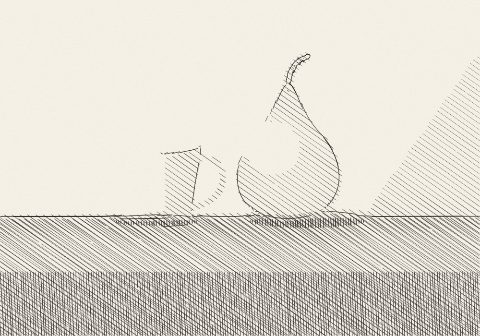
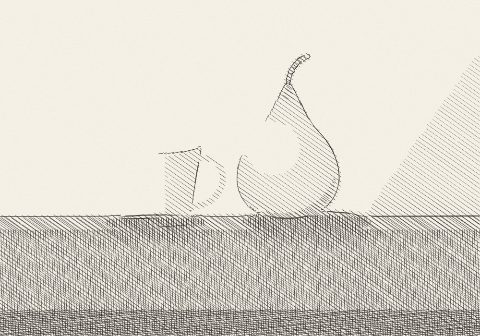
화풍 13종으로 정리, 입력 흑백 변환 토글 삭제, 펜화 기본 5단계
화풍
- 남긴 13종: 펜화(명암 단계 해칭) · 리천 · 세밀 펜화 · 클래식 해칭 · 크로스 해칭 ·
  윤곽선 드로잉 · 점묘 · 판화풍 · 극사실 세밀화 · 잉크 일러스트 · 수채 담채 · 유화 · 고흐풍.
- 지운 7종: 스크리블 · 어반 스케치 · 건축 제도풍 · 지브리풍 · 웹툰 · 망가 · 판각.
  `PenStyle`·`PEN_STYLES`·`PAINT_FOR_STYLE`·`STYLE_LABEL`·`STYLE_DESC`·`STYLE_TEXT`·`STYLE_TIP`
  과 예시 그림에서 함께 뺐고, 옛 이력은 `mergeParams` 의 `OLD_STYLE` 이 가장 가까운 화풍으로 옮긴다
  (스크리블·어반→리천, 건축→클래식 해칭, 지브리·웹툰·망가→잉크 일러스트, 판각→고흐풍).
- 갤러리 예시 그림 13장을 지금 설정으로 다시 만들었다.

입력 패널
- "흑백으로 변환하여 입력" 토글 삭제. 입력은 늘 원본 색 그대로 준비하고,
  흑백·세피아는 "색 표현"이 정한다. `DrawingParams.grayscaleInput` 도 없앴다.

펜화
- 명암 단계 기본을 5로 되돌렸다 (범위는 그대로 3~10). 다른 붓에서 펜화로 바꿀 때도 5단계.

Claude-Session: https://claude.ai/code/session_01Hvnc9GgokccTnGmXxLxTkb

Changed region(s): [[0.0, 0.1488, 1.0, 1.0]]

diff --git a/src/types.ts b/src/types.ts
@@ -8,10 +8,10 @@ export type { ArtistId } from './artists';
 
 export type ProviderId = 'gemini' | 'openai' | 'xai';
 export type PenStyle =
-  | 'richeon' | 'fineink'
-  | 'hatching' | 'crosshatch' | 'contour' | 'scribble' | 'stipple'
-  | 'engraving' | 'urban' | 'realistic' | 'comic' | 'architectural'
-  | 'tonehatch' | 'ghibli' | 'webtoon' | 'manga' | 'watercolor' | 'oil' | 'vangogh' | 'carver';
+  | 'tonehatch' | 'richeon' | 'fineink'
+  | 'hatching' | 'crosshatch' | 'contour' | 'stipple'
+  | 'engraving' | 'realistic' | 'comic'
+  | 'watercolor' | 'oil' | 'vangogh';
 
 /** 결과를 만든 엔진: 브라우저 로컬 렌더러 또는 AI 제공사 */
 /** 결과를 만든 엔진: 브라우저 로컬 렌더러, AI 제공사, 또는 밖에서 만든 그림(Dynamic Auto-Painter 등)을 불러온 것 */
@@ -141,26 +141,20 @@ export const DEFAULT_PAINT: PaintProfile = RICHEON_PAINT;
 
 /** 화풍마다 완전한 그리기 설정 (DAP 의 프리셋). 갤러리에서 화풍을 고르면 이 값이 그대로 들어간다 */
 export const PAINT_FOR_STYLE: Record<PenStyle, PaintProfile> = {
-  tonehatch: { ...CLASSIC_PAINT, brush: 'tone', passes: 10, brushSize: 50, detail: 62, accuracy: 70, strokeLength: 70, featureFollow: 0, baseAngle: 35, randomness: 22, lineWidth: 1.4, ink: 82, paperKeep: 58, edges: 45, vignette: 0 },
+  tonehatch: { ...CLASSIC_PAINT, brush: 'tone', passes: 5, brushSize: 50, detail: 62, accuracy: 70, strokeLength: 70, featureFollow: 0, baseAngle: 35, randomness: 22, lineWidth: 1.4, ink: 82, paperKeep: 58, edges: 45, vignette: 0 },
   richeon: RICHEON_PAINT,
   fineink: FINE_PAINT,
   hatching: CLASSIC_PAINT,
   crosshatch: { ...CLASSIC_PAINT, brush: 'tone', passes: 6, detail: 75, accuracy: 70, strokeLength: 65, randomness: 25, lineWidth: 1.5, paperKeep: 50, edges: 55 },
   contour: { ...CLASSIC_PAINT, brush: 'contour', passes: 2, brushSize: 40, detail: 60, accuracy: 50, strokeLength: 60, featureFollow: 70, baseAngle: 45, randomness: 25, ink: 85, paperKeep: 65, edges: 95 },
-  scribble: { ...CLASSIC_PAINT, brush: 'pen', passes: 4, brushSize: 45, detail: 75, accuracy: 60, strokeLength: 60, featureFollow: 30, baseAngle: 0, randomness: 70, lineWidth: 1.3, ink: 75, edges: 45 },
   stipple: { ...CLASSIC_PAINT, brush: 'stipple', passes: 4, brushSize: 40, detail: 85, accuracy: 65, strokeLength: 0, featureFollow: 0, randomness: 50, lineWidth: 1.6, ink: 90, edges: 30 },
   engraving: { ...CLASSIC_PAINT, passes: 5, brushSize: 40, detail: 85, accuracy: 75, strokeLength: 90, featureFollow: 90, baseAngle: 0, randomness: 10, lineWidth: 1.4, ink: 82, paperKeep: 45, edges: 60 },
-  urban: { ...RICHEON_PAINT, passes: 3, brushSize: 50, detail: 65, accuracy: 55, strokeLength: 60, featureFollow: 75, baseAngle: 60, randomness: 45, lineWidth: 1.5, paperKeep: 62, edges: 60, vignette: 55 },
   realistic: { ...CLASSIC_PAINT, brush: 'tone', passes: 6, brushSize: 35, detail: 100, accuracy: 95, strokeLength: 45, featureFollow: 70, baseAngle: 30, randomness: 15, lineWidth: 1, ink: 85, paperKeep: 35, edges: 75 },
   comic: { ...CLASSIC_PAINT, brush: 'contour', passes: 3, brushSize: 45, detail: 70, accuracy: 55, strokeLength: 55, featureFollow: 60, baseAngle: 45, randomness: 20, lineWidth: 2.4, ink: 95, paperKeep: 60, edges: 100 },
-  architectural: { ...CLASSIC_PAINT, passes: 3, brushSize: 50, detail: 70, accuracy: 60, strokeLength: 95, featureFollow: 90, baseAngle: 90, randomness: 5, lineWidth: 1.2, ink: 80, paperKeep: 65, edges: 85 },
-  ghibli: { ...CLASSIC_PAINT, passes: 3, brushSize: 55, detail: 60, accuracy: 50, strokeLength: 65, featureFollow: 60, baseAngle: 30, randomness: 20, lineWidth: 1.4, ink: 70, paperKeep: 60, edges: 65 },
-  webtoon: { ...CLASSIC_PAINT, brush: 'contour', passes: 3, brushSize: 50, detail: 65, accuracy: 55, strokeLength: 60, featureFollow: 60, baseAngle: 45, randomness: 10, lineWidth: 1.8, ink: 90, paperKeep: 62, edges: 95 },
-  manga: { ...CLASSIC_PAINT, passes: 4, brushSize: 40, detail: 90, accuracy: 70, strokeLength: 60, featureFollow: 20, baseAngle: 45, randomness: 5, lineWidth: 1, ink: 90, paperKeep: 55, edges: 85 },
   watercolor: { ...RICHEON_PAINT, brush: 'wash', tip: 'auto', palette: 'match2', wet: 72, passes: 4, brushSize: 78, detail: 80, accuracy: 72, strokeLength: 50, featureFollow: 55, baseAngle: 40, randomness: 50, lineWidth: 1.6, ink: 60, paperKeep: 62, edges: 45, vignette: 15 },
   oil: { ...RICHEON_PAINT, brush: 'oil', tip: 'auto', palette: 'match2', wet: 30, passes: 4, brushSize: 68, detail: 95, accuracy: 80, strokeLength: 40, featureFollow: 65, baseAngle: 0, randomness: 55, lineWidth: 1, ink: 0, paperKeep: 0, edges: 0, vignette: 0 },
   vangogh: { ...RICHEON_PAINT, brush: 'impasto', tip: 'auto', palette: 'match', wet: 18, passes: 4, brushSize: 62, detail: 85, accuracy: 75, strokeLength: 85, featureFollow: 100, baseAngle: 20, randomness: 45, lineWidth: 1.4, ink: 0, paperKeep: 0, edges: 55, vignette: 0 },
-  carver: { ...RICHEON_PAINT, brush: 'impasto', tip: 'chalk', palette: 'mono', wet: 0, passes: 4, brushSize: 30, detail: 100, accuracy: 90, strokeLength: 100, featureFollow: 100, baseAngle: 0, randomness: 12, lineWidth: 1, ink: 0, paperKeep: 0, edges: 70, vignette: 0 },
+
 };
 
 /** 기본값과 측정값을 반영도(0~100)로 섞습니다 */
@@ -235,8 +229,6 @@ export interface DrawingParams {
   contrast: number;
   /** 0~100 견본 반영도 */
   referenceWeight: number;
-  /** 입력을 흑백으로 변환해서 보냄 */
-  grayscaleInput: boolean;
   /** 로컬 엔진의 그리기 설정 */
   paint: PaintProfile;
   /** AI 로 그릴 때 로컬 결과를 견본 이미지로 함께 보낼지 (같은 구도라 해칭 방향·톤 배치를 잘 따름) */
@@ -259,7 +251,6 @@ export const DEFAULT_PARAMS: DrawingParams = {
   brightness: 0,
   contrast: 0,
   referenceWeight: 60,
-  grayscaleInput: false,
   paint: DEFAULT_PAINT,
   aiRefFromLocal: true,
   aiRefFromPreset: true,
@@ -270,7 +261,12 @@ export const DEFAULT_PARAMS: DrawingParams = {
 /** 이력에서 불러온 옛 레코드에 새 필드가 없을 수 있으므로 기본값과 병합합니다 */
 export function mergeParams(p: Partial<DrawingParams> | undefined): DrawingParams {
   const old = (p as { strokes?: Record<string, unknown> } | undefined)?.strokes;
-  const style = (p?.style as string) === 'parkyongsoon' ? 'fineink' : p?.style;
+  // 없앤 화풍(스크리블·어반·건축 제도·지브리·웹툰·망가·판각)과 옛 ID 는 가장 가까운 화풍으로 옮긴다
+  const OLD_STYLE: Record<string, PenStyle> = {
+    parkyongsoon: 'fineink', scribble: 'richeon', urban: 'richeon', architectural: 'hatching',
+    ghibli: 'comic', webtoon: 'comic', manga: 'comic', carver: 'vangogh',
+  };
+  const style = p?.style ? OLD_STYLE[p.style as string] ?? p.style : undefined;
   // 옛 레코드(선·톤 프로필)는 옮기고, 아주 옛 레코드(둘 다 없음)는 화풍의 프리셋으로
   const paint = p?.paint ? { ...(style ? PAINT_FOR_STYLE[style] : DEFAULT_PAINT), ...p.paint } : migrateStrokes(old) ?? (style ? PAINT_FOR_STYLE[style] : DEFAULT_PAINT);
   // 옛 레코드가 지금은 없는 붓을 가리킬 수 있다
@@ -280,6 +276,7 @@ export function mergeParams(p: Partial<DrawingParams> | undefined): DrawingParam
   const merged: DrawingParams = { ...DEFAULT_PARAMS, ...p, paint };
   delete (merged as unknown as { strokes?: unknown }).strokes;
   delete (merged as unknown as { level?: unknown }).level; // 숙련도(초급·중급·상급)는 없앴다
+  delete (merged as unknown as { grayscaleInput?: unknown }).grayscaleInput; // 입력 흑백 변환 토글도 없앴다
   if (style) merged.style = style;
   return merged;
 }
@@ -344,30 +341,24 @@ export const LIGHT_LABEL: Record<LightDir, string> = {
 export const LIGHT_DIRS: CompassDir[] = ['N', 'NE', 'E', 'SE', 'S', 'SW', 'W', 'NW'];
 
 export const PEN_STYLES: PenStyle[] = [
-  'tonehatch', 'richeon', 'fineink', 'hatching', 'crosshatch', 'contour', 'scribble', 'stipple', 'engraving', 'urban', 'realistic', 'comic', 'architectural',
-  'ghibli', 'webtoon', 'manga', 'watercolor', 'oil', 'vangogh', 'carver',
+  'tonehatch', 'richeon', 'fineink', 'hatching', 'crosshatch', 'contour', 'stipple', 'engraving', 'realistic', 'comic',
+  'watercolor', 'oil', 'vangogh',
 ];
 export const STYLE_LABEL: Record<PenStyle, string> = {
-  tonehatch: '명암 5단계 해칭 (교본식)',
+  tonehatch: '펜화 · 명암 단계 해칭 (교본식)',
   richeon: '리천 스타일 (어반 펜 스케치)',
   fineink: '세밀 펜화',
   hatching: '클래식 해칭',
   crosshatch: '크로스 해칭',
   contour: '윤곽선 드로잉',
-  scribble: '스크리블',
   stipple: '점묘',
   engraving: '판화풍',
-  urban: '어반 스케치',
   realistic: '극사실 세밀화',
   comic: '잉크 일러스트',
-  architectural: '건축 제도풍',
-  ghibli: '지브리풍 애니메이션',
-  webtoon: '웹툰',
-  manga: '일본 만화(망가)',
   watercolor: '수채 담채 (펜 + 수채)',
   oil: '유화 붓터치 (인상주의)',
   vangogh: '고흐풍 유화 (임파스토)',
-  carver: '조각·판각 느낌 (새긴 선)',
+
 };
 export const STYLE_DESC: Record<PenStyle, string> = {
   tonehatch: '사진을 밝기 5단계로 나누고 단계마다 한 방향 펜선을 얹습니다. 가장 밝은 단계는 흰 종이로 비우고, 어두운 단계일수록 선이 굵고 촘촘해지며 셋째 단계부터 교차선이 됩니다. 스케치북에 그대로 따라 그리기 가장 쉬운 방식입니다.',
@@ -376,18 +367,12 @@ export const STYLE_DESC: Record<PenStyle, string> = {
   hatching: '한 방향 평행선으로 명암을 쌓는 정석 펜 드로잉. 가장 무난하고 사진 재현이 안정적입니다.',
   crosshatch: '여러 각도의 선을 교차시켜 부드러운 중간톤을 만듭니다. 입체감과 질감이 풍부합니다.',
   contour: '명암을 거의 넣지 않고 윤곽과 형태선만으로 그립니다. 여백이 많고 간결합니다.',
-  scribble: '둥글게 휘감는 낙서 같은 선을 겹쳐 톤을 만듭니다. 자유롭고 에너지가 느껴집니다.',
   stipple: '선 대신 점의 밀도로 명암을 표현합니다. 시간이 오래 걸린 듯한 정교한 인상입니다.',
   engraving: '굵기가 규칙적으로 변하는 선으로 동판화·지폐 삽화 같은 느낌을 냅니다.',
-  urban: '느슨하고 빠른 선, 일부러 남긴 미완성 여백. 여행 스케치북 느낌입니다.',
   realistic: '아주 촘촘한 선으로 사진처럼 세밀하게 묘사합니다. 가장 오래 그린 듯한 결과입니다.',
   comic: '굵은 외곽선과 검게 채운 그림자(스팟 블랙). 만화·잉크 일러스트 느낌입니다.',
-  architectural: '직선 위주의 정확한 원근과 균일한 선. 건축 도면·투시도 같은 인상입니다.',
-  ghibli: '손그림 애니메이션 배경화 느낌. 부드럽고 깨끗한 윤곽, 단순화한 형태, 셀 방식의 2~3단계 평면 명암, 따뜻하고 서정적인 분위기.',
-  webtoon: '한국 웹툰의 깔끔한 디지털 선화. 굵기가 일정한 외곽선, 단순한 셀 셰이딩, 인물은 또렷하고 배경은 간략하게.',
-  manga: '일본 만화 원고 느낌. 가늘고 날카로운 펜선, 스크린톤처럼 규칙적인 점·선 무늬로 명암, 강조 부분에 굵은 잉크.',
   watercolor: '펜으로 윤곽을 그리고 물을 많이 섞은 수채를 몇 단계의 옅은 담채로 얹는 어반 스케치 방식. 밝은 곳은 종이를 남기고 담채 가장자리는 안료가 고여 살짝 짙어집니다. 흑백이면 먹 담채가 됩니다.',
   oil: '불투명한 짧은 붓 자국을 큰 것부터 작은 것까지 겹쳐 종이를 다 덮는 인상주의 유화. 색은 사진보다 맑고 진하게, 붓은 면의 방향을 따르고, 빛 받는 곳은 밝은 붓 자국으로 살립니다. 컬러로 보는 것이 좋습니다.',
   vangogh: '고흐의 후기 풍경화처럼 길고 굽은 두꺼운 붓 자국이 면의 흐름을 따라 소용돌이칩니다. 자국마다 색이 조금씩 달라 노랑·주황·초록이 줄무늬로 섞이고, 형태는 짙은 윤곽 붓으로 둘러 잡습니다. 컬러로 보는 것이 좋습니다.',
-  carver: '나무나 판에 새긴 것처럼 가늘고 긴 홈이 면의 흐름을 따라 흐르고, 홈마다 어두운 가장자리와 밝은 능선이 있어 얕은 부조처럼 보입니다. 세피아나 흑백으로 보면 판각 느낌이 가장 잘 납니다.',
+
 };

diff --git a/src/App.tsx b/src/App.tsx
@@ -191,8 +191,7 @@ export function App() {
     abortRef.current = ac;
     try {
       setBusy('그리는 중…');
-      const gray = params.grayscaleInput && !inputIsGray;
-      const preparedInput = await prepareInput(input, { maxSide: 1536, grayscale: gray, relight: params.lightAuto ? undefined : params.light });
+      const preparedInput = await prepareInput(input, { maxSide: 1536, grayscale: false, relight: params.lightAuto ? undefined : params.light });
       const preparedRef = reference ? await prepareInput(reference, { maxSide: 1024, grayscale: false }) : undefined;
       const result = await renderLocalDrawing(
         preparedInput, { paint: params.paint, color: params.color, guides: params.guides, guideRadius: params.guideRadius }, ac.signal,
@@ -211,8 +210,7 @@ export function App() {
     setError(null);
     try {
       setBusy('불러오는 중…');
-      const gray = params.grayscaleInput && !inputIsGray;
-      const preparedInput = await prepareInput(input, { maxSide: 1536, grayscale: gray });
+      const preparedInput = await prepareInput(input, { maxSide: 1536, grayscale: false });
       const result = await prepareInput(file, { maxSide: 2048, grayscale: false });
       await commit({ id: newId(), createdAt: Date.now(), input: preparedInput, result, params: { ...params }, engine: 'external' });
     } catch (e) { fail(e); } finally { finish(); }
@@ -226,8 +224,7 @@ export function App() {
     abortRef.current = ac;
     try {
       setBusy('이미지 준비 중…');
-      const gray = params.grayscaleInput && !inputIsGray;
-      const preparedInput = await prepareInput(input, { maxSide: 1536, grayscale: gray, relight: params.lightAuto ? undefined : params.light });
+      const preparedInput = await prepareInput(input, { maxSide: 1536, grayscale: false, relight: params.lightAuto ? undefined : params.light });
       // 로컬 결과가 있고 스위치가 켜져 있으면 그것을 견본으로 (같은 구도라 올린 견본보다 정확히 따름)
       const localRef = params.aiRefFromLocal && (current?.engine === 'local' || current?.engine === 'external') ? current.base ?? current.result : null;
       // 둘 다 없으면 고른 화풍의 프리셋 예시 그림 (다른 사진이므로 기법만 따르라고 지시)
@@ -262,7 +259,7 @@ export function App() {
       setLive(true);
       try {
         const photo = lightChanged && input
-          ? await prepareInput(input, { maxSide: 1536, grayscale: params.grayscaleInput && !inputIsGray, relight: params.lightAuto ? undefined : params.light })
+          ? await prepareInput(input, { maxSide: 1536, grayscale: false, relight: params.lightAuto ? undefined : params.light })
           : current.input;
         const base = await renderLocalDrawing(photo, { paint: params.paint, color: params.color, guides: params.guides, guideRadius: params.guideRadius }, ac.signal);
         if (id !== liveRef.current) return;
@@ -274,7 +271,7 @@ export function App() {
       } catch { /* 중단·오류는 조용히 */ } finally { if (id === liveRef.current) setLive(false); }
     }, 350);
     return () => { window.clearTimeout(timer); ac.abort(); };
-  }, [params.paint, params.color, params.light, params.lightAuto, params.grayscaleInput, params.guides, params.guideRadius, inputIsGray, input, current, busy, stamps]);
+  }, [params.paint, params.color, params.light, params.lightAuto, params.guides, params.guideRadius, inputIsGray, input, current, busy, stamps]);
 
   // 낙관·사인 배치가 바뀌면 (끌어 놓기 끝, 크기 조절, 추가·제거) 결과에 다시 구워 넣습니다.
   const bakeRef = useRef(0);
@@ -319,7 +316,7 @@ export function App() {
     abortRef.current = ac;
     try {
       setBusy('이미지 준비 중…');
-      const photo = current?.input ?? (await prepareInput(input, { maxSide: 1536, grayscale: params.grayscaleInput && !inputIsGray }));
+      const photo = current?.input ?? (await prepareInput(input, { maxSide: 1536, grayscale: false }));
       const prompt = buildProcessPrompt(params, !!current);
       const sheet = await generateDrawing(settings, {
         input: photo, reference: current?.result, prompt, signal: ac.signal, onStatus: setBusy,

diff --git a/src/prompt.ts b/src/prompt.ts
@@ -27,30 +27,14 @@ const STYLE_TEXT: Record<PenStyle, string> = {
     'Style: cross-hatching. Layers of strokes at two to four angles build smooth, continuous mid-tones; darkest areas have the most layers.',
   contour:
     'Style: pure contour line drawing. Only outlines and a few interior form lines, almost no shading, large areas of untouched paper.',
-  scribble:
-    'Style: scribble hatching. Loose, looping, energetic circular strokes pile up to make tone; edges stay lively and slightly rough.',
   stipple:
     'Style: stippling. Tone is made entirely of dots of varying density instead of lines; contours are implied by dot clusters.',
   engraving:
     'Style: engraving / etching look. Regular, precisely spaced lines that swell and taper to follow form, like a banknote illustration.',
-  urban:
-    'Style: urban sketchbook. Quick, loose, slightly wobbly lines, selective detail, deliberately unfinished edges fading into the paper.',
   realistic:
     'Style: hyper-realistic pen rendering. Extremely fine, dense strokes reproducing every value and texture almost photographically.',
   comic:
     'Style: comic ink illustration. Bold, confident outlines, solid black spot-shadows, simplified mid-tones, high graphic contrast.',
-  architectural:
-    'Style: architectural drafting. Ruler-straight lines, accurate perspective, uniform line weight, restrained hatching only in shadows.',
-  ghibli:
-    'Style: hand-drawn Japanese animation look reminiscent of classic Studio Ghibli films, rendered in pen: soft clean outlines, ' +
-    'simplified gentle shapes, cel-shading with two or three flat tone steps made of even hatching, warm nostalgic atmosphere, ' +
-    'no photographic detail.',
-  webtoon:
-    'Style: Korean webtoon line art in pen: crisp digital-looking outlines of uniform weight, simple cel shading with clean flat ' +
-    'shadow shapes, subjects drawn sharply while the background is simplified, modern and clean.',
-  manga:
-    'Style: Japanese manga ink page in pen: thin sharp linework, screentone-like regular dot and line patterns for mid-tones, ' +
-    'bold spot blacks for emphasis, expressive line weight variation, black-and-white graphic clarity.',
   watercolor:
     'Style: urban-sketch pen and wash. Confident ink outlines drawn first, then loose, transparent watercolor washes in a few ' +
     'flat value steps laid over them; highlights left as untouched white paper, washes bleeding softly past the lines, ' +
@@ -63,9 +47,7 @@ const STYLE_TEXT: Record<PenStyle, string> = {
     'Style: post-impressionist oil painting in the manner of Van Gogh instead of pen: long curving thick impasto strokes that swirl ' +
     'along the flow of every surface, each stroke a slightly different hue so yellows, oranges and greens stripe together, dark blue ' +
     'contour strokes around the forms, saturated color, no bare canvas.',
-  carver:
-    'Style: carved relief look instead of pen: fine long grooves flowing along every surface as if cut into wood, each groove with a ' +
-    'dark edge and a light ridge so the picture reads as a shallow relief, nearly monochrome with a faint tint, high detail.',
+
 };
 
 const LIGHT_TEXT: Record<LightDir, string> = {

diff --git a/src/tips.ts b/src/tips.ts
@@ -32,20 +32,14 @@ export const STYLE_TIP: Record<PenStyle, string> = {
   hatching: '한 면에는 한 방향의 선만. 방향이 바뀌는 곳이 면이 꺾이는 곳입니다.',
   crosshatch: '두 번째 층은 첫 층과 30~45도 차이. 90도로 교차하면 그물처럼 딱딱해 보입니다.',
   contour: '선 하나가 곧 형태입니다. 안쪽 선은 꼭 필요한 접히는 곳에만 넣으세요.',
-  scribble: '손을 멈추지 말고 작은 원을 겹칩니다. 어두운 곳은 원을 작게, 밝은 곳은 크게.',
   stipple: '펜을 세워 톡톡 찍습니다. 톤은 점의 크기가 아니라 간격으로 조절합니다.',
   engraving: '선 간격을 일정하게, 형태를 따라 휘게. 어두운 곳은 선을 굵게(필압) 합니다.',
-  urban: '완벽하게 닫지 않아도 됩니다. 관심 있는 부분만 자세히, 나머지는 몇 개 선으로 암시합니다.',
   realistic: '아주 작은 부분씩 나눠 그립니다. 종이 한 손가락 넓이를 끝내고 다음으로.',
   comic: '외곽선을 먼저 굵게 확정한 뒤 가장 어두운 그림자만 검게 채웁니다. 중간톤은 생략해도 됩니다.',
-  architectural: '수직선은 항상 수직으로. 소실점을 종이 밖에라도 점으로 찍어 두고 선을 맞춥니다.',
-  ghibli: '형태를 둥글고 단순하게 정리한 뒤, 그림자는 경계가 또렷한 덩어리 2~3개로만 나눕니다. 그림자 안은 같은 간격의 해칭으로 평평하게.',
-  webtoon: '외곽선 굵기를 끝까지 일정하게 유지합니다. 그림자는 모양을 먼저 연하게 그린 뒤 그 안만 채우세요.',
-  manga: '중간톤은 선 대신 규칙적인 점이나 사선 무늬로. 가장 강조할 곳 한두 군데만 검게 채웁니다.',
   watercolor: '펜 선을 먼저 끝내고 완전히 말립니다. 물을 많이 섞은 색을 큰 붓으로 한 번에 얹고, 밝은 곳은 종이를 남기세요. 마르기 전에 덧칠하지 않고, 진한 곳은 마른 뒤 한 번 더 얹습니다.',
   oil: '펜 대신 유화·아크릴 연습용입니다. 큰 붓으로 어두운 색부터 면을 나눠 칠하고, 마른 뒤 작은 붓으로 밝은 색을 두껍게 얹습니다. 윤곽선은 그리지 않고 색 경계로만 형태를 잡습니다.',
   vangogh: '펜 대신 유화·아크릴·오일파스텔 연습용입니다. 면마다 붓이 흐를 방향을 먼저 정하고, 물감을 섞지 않은 채 굵고 긴 자국을 나란히 놓습니다. 이웃한 자국은 색을 조금씩 바꾸고, 형태 경계는 짙은 파랑으로 한 번 둘러 줍니다.',
-  carver: '펜으로 옮기려면 판화 밑그림처럼 생각하세요. 면마다 홈이 흐를 방향을 정하고 가늘고 긴 선을 나란히 새기듯 긋습니다. 형태 경계는 선의 방향을 바꿔 잡고, 밝은 곳은 선 사이를 넓게 둡니다.',
+
 };
 
 export function buildTip(step: GuideStep, style: PenStyle, light: LightDir, artist: ArtistId = 'none'): string[] {

diff --git a/src/components/InputPanel.tsx b/src/components/InputPanel.tsx
@@ -79,15 +79,6 @@ export function InputPanel({ input, reference, inputIsGray, params, onParams, on
             <button className="link" onClick={() => onInput(null)}>제거</button>
           </div>
         )}
-        <button
-          className="toggle" role="switch" aria-checked={params.grayscaleInput}
-          onClick={() => onParams({ grayscaleInput: !params.grayscaleInput })}
-          disabled={!!inputIsGray}
-          title={inputIsGray ? '이미 흑백 사진입니다' : undefined}
-        >
-          <span>흑백으로 변환하여 입력</span>
-          <span className={`switch ${params.grayscaleInput || inputIsGray ? 'on' : ''}`} />
-        </button>
       </div>
 
       <div className="field">

diff --git a/README.md b/README.md
@@ -24,8 +24,8 @@ AI 생성은 선택 기능으로, 사용자가 직접 입력한 API 키(BYOK)가
 
 - 로컬 엔진은 Dynamic Auto-Painter 와 같은 방식입니다: 큰 획 층에서 작은 획 층으로, 캔버스가 아직 사진보다 밝은 곳에만 획을 놓고, 획은 면의 방향을 따라 흐르다 다른 면에서 멈춥니다. 그려지는 과정이 화면에 층별로 보입니다.
 - **그리기 설정 패널**은 붓과 슬라이더 넷(세밀함·여백·진하기·선 굵기)만 보여 줍니다. 움직이면 결과가 바로 다시 그려집니다. 층 수·획 길이·정밀도·형태 따라가기·기준 각도·무작위성·윤곽선·종이색 등은 "세부 조정"을 펼치면 나옵니다.
-- 붓은 펜화(명암 10단계 해칭)·리천·윤곽·점묘·담채·유화·고흐 일곱 가지입니다. 담채·유화·고흐는 **층마다 붓이 바뀝니다**: 1~2층은 큰 평붓(수채는 젖은 큰 붓), 3~4층은 중간 둥근 붓, 5~6층은 가는 붓. 붓 모양을 직접 고를 수도 있습니다.
-- 화풍과 붓이 **펜화와 붓화로 나뉘어** 보입니다. 펜: 펜화(명암 10단계 해칭)·리천·윤곽·점묘 / 붓: 담채·유화·고흐.
+- 붓은 펜화(명암 단계 해칭, 기본 5단계·최대 10단계)·리천·윤곽·점묘·담채·유화·고흐 일곱 가지입니다. 담채·유화·고흐는 **층마다 붓이 바뀝니다**: 1~2층은 큰 평붓(수채는 젖은 큰 붓), 3~4층은 중간 둥근 붓, 5~6층은 가는 붓. 붓 모양을 직접 고를 수도 있습니다.
+- 화풍과 붓이 **펜화와 붓화로 나뉘어** 보입니다. 펜: 펜화(명암 단계 해칭)·리천·윤곽·점묘 / 붓: 담채·유화·고흐.
 - **표현 ↔ 사실**, **마른 붓 ↔ 젖은 붓** 두 슬라이더로 그림의 성격을 잡습니다. 사실 쪽으로 갈수록 원본 사진과 같아지고, 젖을수록 붓 자국이 서로 번집니다.
 - 붓 자국 모양 여덟 벌을 획마다 무작위로 골라 씁니다. 같은 자국이 반복되지 않습니다.
 - **점묘**는 점 하나의 굵기를 "점 굵기" 슬라이더로 정하고, 컬러로 그리면 **그 자리 사진 색 그대로**의 점을 찍습니다(팔레트를 고르면 그 색 범위로 묶입니다). 점의 가장자리는 점마다 다르게 거칠어 손으로 찍은 점처럼 보입니다.
@@ -45,7 +45,7 @@ AI 생성은 선택 기능으로, 사용자가 직접 입력한 API 키(BYOK)가
 
 - 원본 사진 업로드 (컬러/흑백 자동 감지, 흑백 변환 옵션)
 - 견본 드로잉 업로드 + 반영도 조절 (선택)
-- 표현 설정: 화풍(20종, 명암 10단계 해칭, 애니·웹툰·만화·수채 담채·유화·고흐풍·판각 포함), 유명 화가 화풍 접목(10명), 강도, 색 표현(컬러·흑백·세피아), 빛의 방향(원본·8방향·정면광·역광), 밝기, 대비
+- 표현 설정: 화풍(13종 — 펜화(명암 단계 해칭)·리천·세밀 펜화·클래식 해칭·크로스 해칭·윤곽선 드로잉·점묘·판화풍·극사실 세밀화·잉크 일러스트·수채 담채·유화·고흐풍), 유명 화가 화풍 접목(10명), 강도, 색 표현(컬러·흑백·세피아), 빛의 방향(원본·8방향·정면광·역광), 밝기, 대비
 - 원본·결과 분할 비교, 스페이스바 전환, PNG 저장, 최근 30개 이력(브라우저 IndexedDB)
 - **해칭 방향 지시**: 사진 위에 선을 그으면 그 근처의 해칭이 그 방향을 따릅니다 (벽은 세로, 바닥은 원근선). 영향 범위 조절, 되돌리기
 - **외부 결과 불러오기**: Dynamic Auto-Painter 등 다른 프로그램으로 그린 그림을 넣으면 이 사진의 완성 참고가 됩니다 (`docs/dap-workflow.md`)
